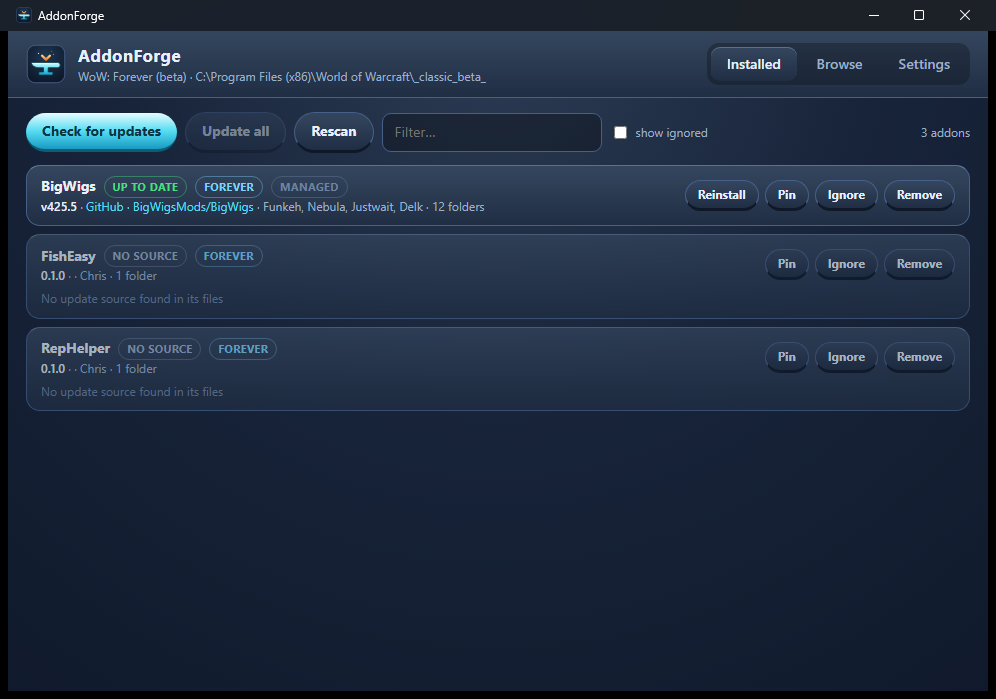
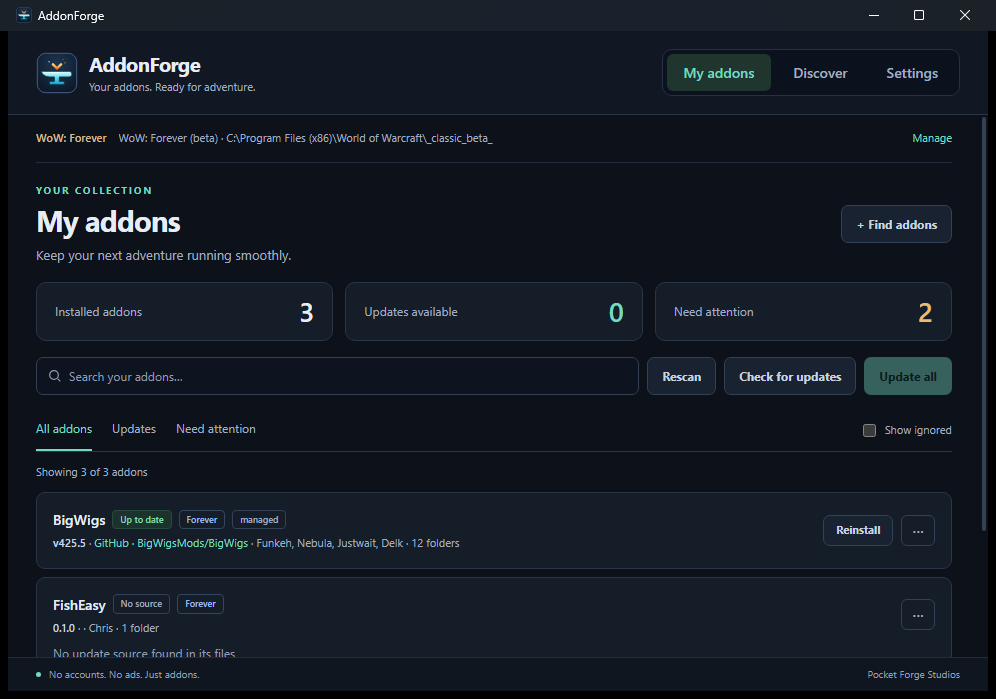
README screenshot of the new UI, notes on the redesign

diff --git a/CLAUDE.md b/CLAUDE.md
@@ -75,8 +75,14 @@ very little memory and has no privacy issues. Decisions locked that day:
 - `src-tauri/src/lib.rs` — Tauri commands; groups folders into packages
   (catalogue match by folder name / ids, then by Wago/WoWI/Curse id, else
   standalone) and picks the source (github > wago-with-key > wowi > tukui).
-- `ui/app.js` — three tabs: Installed (check/update/remove), Browse
-  (catalogue install), Settings (install folder, Wago key, about).
+- `ui/app.js` — three tabs: **My addons** (stats row, search, All /
+  Updates / Need attention filters, per-row actions in a "..." menu),
+  **Discover** (GitHub-link install box + catalogue), **Settings** (install
+  folder, pre-releases, Wago key, export/import, report a problem, about).
+  Redesigned 2026-09-22 by a second session (green accent theme, footer
+  "No accounts. No ads. Just addons."); `node scripts/test-ui.js` runs its
+  DOM-free behaviour checks (counts, filters, search, escaping, modal).
+  Keep both `cargo test` and that script green.
 
 ## Footprint (measured 2026-09-22, 20s idle after launch, private bytes)
 Exe ~5 MB on disk. v0.1.0: ~170 MB private total (app ~6 MB + six WebView2
